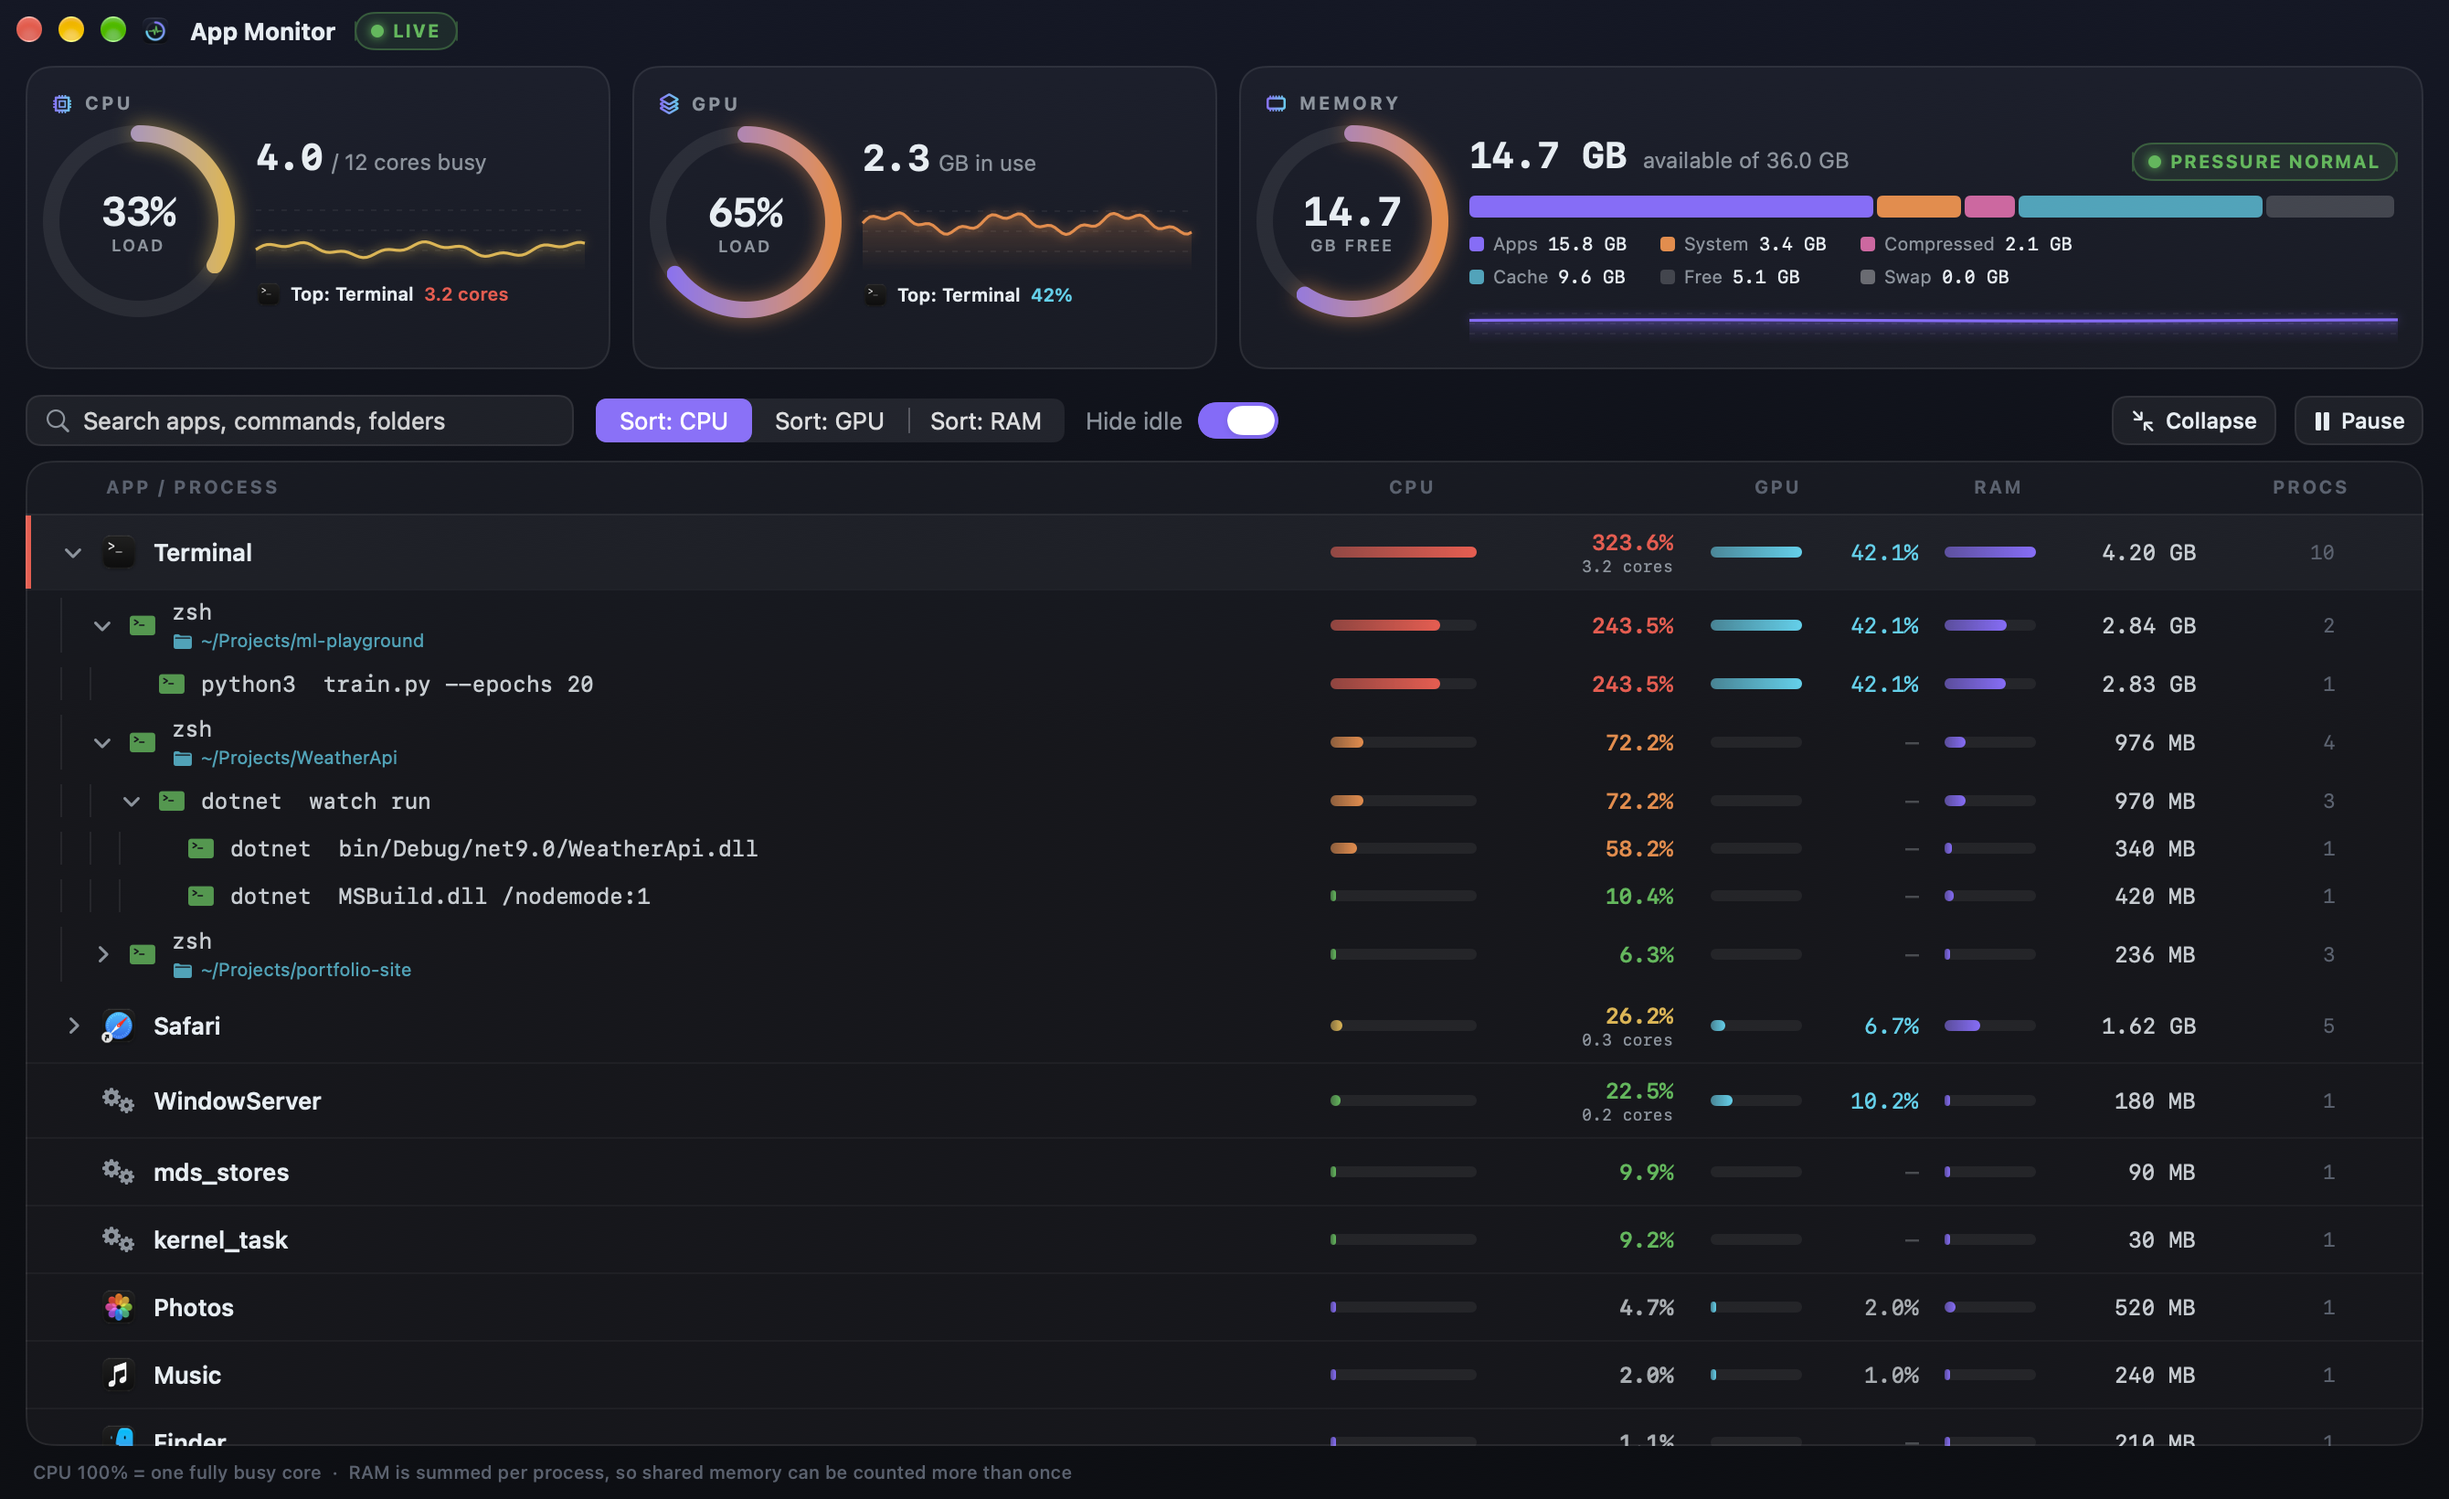
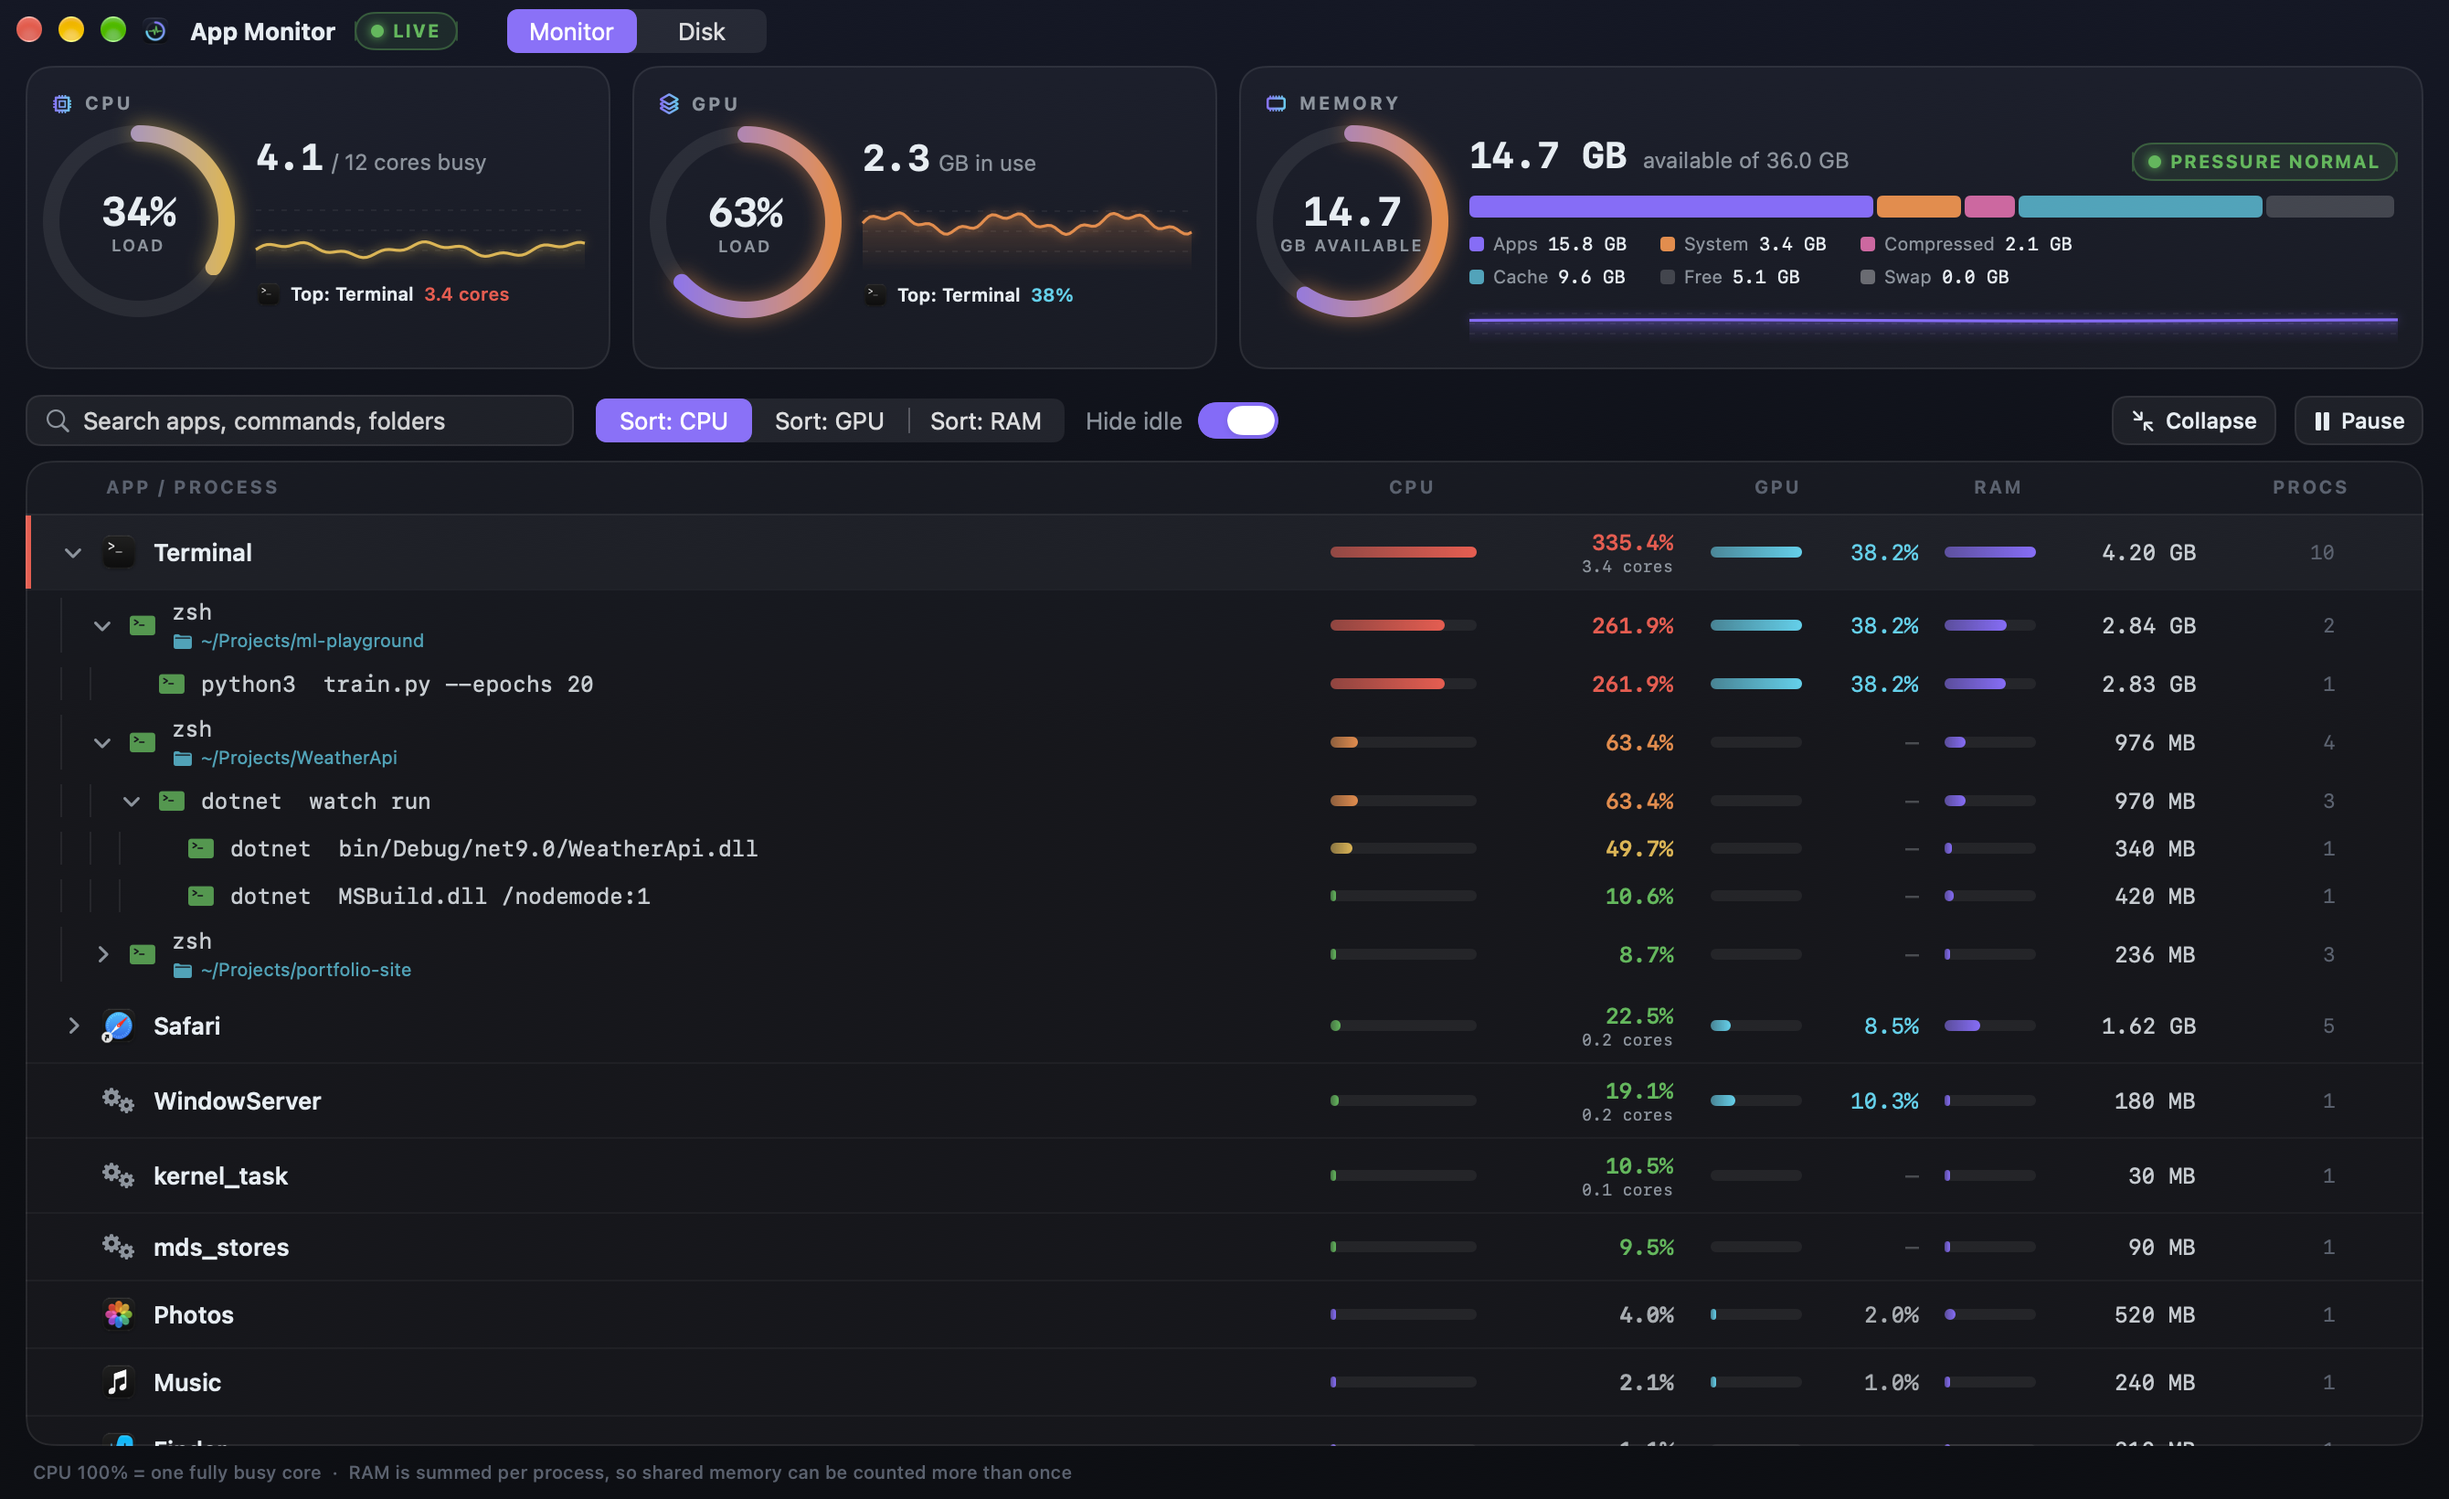
Explain how to replace a stale Full Disk Access grant; README screenshots for both tabs
Switching App Monitor off and on in Full Disk Access kept the grant made for the
ad-hoc 1.1.0 build, so macOS still denied the signed 1.2.2. The banner, release
notes, README and spec now say to remove the entry with − and add it again.
The screenshot script captures the Monitor and Disk tabs. Version 1.2.3.

diff --git a/AppMonitor/DiskPanels.swift b/AppMonitor/DiskPanels.swift
@@ -93,7 +93,7 @@ struct FDABanner: View {
             Image(systemName: "exclamationmark.shield.fill").foregroundStyle(Theme.yellow).font(.title3).accessibilityHidden(true)
             VStack(alignment: .leading, spacing: 3) {
                 Text("Full Disk Access is off.").font(.callout.weight(.semibold))
-                Text("App Monitor can't look inside some folders, such as app containers and Mail. Those parts are skipped. In System Settings, switch App Monitor on (or add it with the + button). If you just updated App Monitor, switch it off and on again.")
+                Text("App Monitor can't look inside some folders, such as app containers and Mail. Those parts are skipped. In System Settings, switch App Monitor on, or add it with the + button. If it's already on, select it, remove it with the − button, add it again with +, then quit and reopen App Monitor.")
                     .font(.callout).foregroundStyle(Theme.dim).fixedSize(horizontal: false, vertical: true)
             }
             Spacer()

diff --git a/README.md b/README.md
@@ -5,13 +5,16 @@
 <h1 align="center">App Monitor</h1>
 
 <p align="center">
-  A clear, free process monitor for macOS that shows what each app <i>really</i> costs,
-  including every process it started.
+  A clear, free process monitor and disk cleaner for macOS. It shows what each app <i>really</i>
+  costs, including every process it started, and finds caches, leftovers and junk you can safely
+  remove.
 </p>
 
-![App Monitor screenshot](docs/screenshot.png)
+![App Monitor's Monitor tab: per-app CPU, GPU and RAM with a process tree](docs/screenshot.png)
 
-<sub>The screenshot uses demo mode: every process, folder and number in it is made up.</sub>
+![App Monitor's Disk tab: junk and developer caches with Safe and Review labels](docs/screenshot-disk.png)
+
+<sub>The screenshots use demo mode: every process, folder and number in them is made up.</sub>
 
 ## Why
 
@@ -146,9 +149,14 @@ You can change this in **System Settings → Privacy & Security → Automation**
 The disk cleaner works without it, but skips folders macOS protects (app containers, Mail, the
 Trash) and marks them "Needs Full Disk Access". To include them, switch App Monitor on in
 **System Settings → Privacy & Security → Full Disk Access**. Releases after 1.1.0 are all signed
-with the same certificate, so macOS should keep this permission when you update. Updating from
-1.1.0 or earlier (ad-hoc signed), or running an ad-hoc build of your own: switch App Monitor off
-and on again after each update.
+with the same certificate, so macOS should keep this permission when you update.
+
+If App Monitor is switched on there but the Disk tab still says Full Disk Access is off, macOS
+is holding a permission for an older signature of the app. Switching it off and on doesn't
+replace that. Select App Monitor in the list, remove it with the **−** button, add it again
+with **+** (from Applications), then quit and reopen App Monitor. This is needed once when
+updating from 1.1.0 or earlier (ad-hoc signed), and after every rebuild if you run ad-hoc builds
+of your own.
 
 ## Demo mode and screenshots
 
@@ -158,7 +166,8 @@ Demo mode replaces real processes with made-up ones, which is handy for screensh
 open -n "AppMonitor/App Monitor.app" --env APPMON_DEMO=1
 ```
 
-`scripts/screenshot.sh` rebuilds the app and regenerates `docs/screenshot.png` from demo mode.
+`scripts/screenshot.sh` rebuilds the app and regenerates `docs/screenshot.png` and `docs/screenshot-disk.png`
+from demo mode.
 
 ## Also included
 
@@ -186,7 +195,7 @@ AppMonitor/
   AppMonitor.entitlements  its only entitlement: Apple events to Finder (hardened runtime)
 scripts/            apptop.py, screenshot.sh, selftest.sh, grouping-test.sh, fixture-test.sh,
                     make-fixtures.sh (the fake folder trees fixture-test.sh uses), make-signing-cert.sh
-docs/               README screenshot, disk cleaner specification
+docs/               README screenshots, disk cleaner specification
 ```
 
 ## Tests
@@ -208,11 +217,11 @@ build provenance attestation. If the tag isn't on `main` or the signing secrets 
 fails before building and publishes nothing.
 
 ```bash
-git tag v1.2.0
-git push origin v1.2.0
+git tag v1.2.3
+git push origin v1.2.3
 ```
 
-Local builds use version 1.2.2 unless `APPMON_VERSION` is set.
+Local builds use version 1.2.3 unless `APPMON_VERSION` is set.
 
 ## Signing
 

diff --git a/docs/specs/disk-cleaner.md b/docs/specs/disk-cleaner.md
@@ -125,9 +125,11 @@ Finder Apple events that move items to the Trash with Put Back (decision D8). It
 `com.apple.security.cs.allow-dyld-environment-variables`.
 
 Until the section 11 acceptance test passes, and while ad-hoc builds are around, the FDA banner
-SHOULD keep: "If you just updated App Monitor, switch it off and on again in Full Disk Access."
-Updating from an ad-hoc build to the first signed one always needs this once, because the
-requirement changes.
+SHOULD tell the user how to replace a stale grant: remove App Monitor from Full Disk Access with
+the − button, add it again with +, then quit and reopen. Updating from an ad-hoc build to the
+first signed one always needs this once, because the requirement changes. Switching the entry off
+and on is not enough: on macOS 27 it kept the old requirement and the signed 1.2.2 build stayed
+denied (kernel log: "deny(1) file-read-data ~/Library/Mail").
 
 ### 3.3 Administrator rights
 
